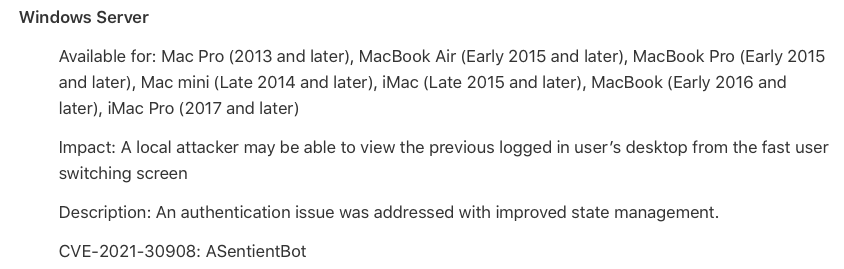
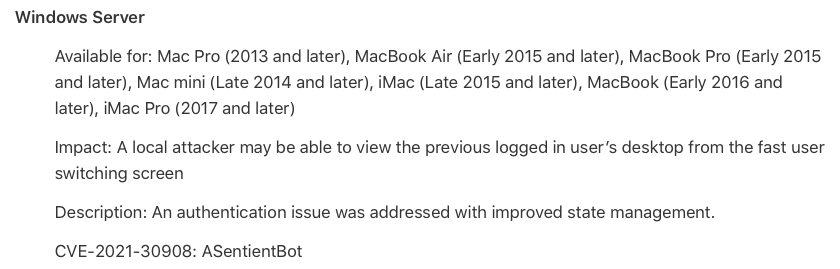
update images on yc and skylight bug pages
boring

diff --git a/sessions/index.html b/sessions/index.html
@@ -16,18 +16,21 @@
 </div>
 <div class="fixedWidth">
 <h1>SkyLight user session exploit</h1>
-While working on <a href="/bigsur">non-Metal acceleration</a> in 2021, I stumbled on a WindowServer bug allowing any user to switch to another session without entering their password. Apple fixed the bug in macOS <a target="_blank" href="https://support.apple.com/en-ca/HT212872">11.6.1</a> and <a target="_blank" href="https://support.apple.com/en-ca/HT212869">12.0.1</a> and paid me a generous bounty.
+I stumbled on a WindowServer bug allowing any user to switch to another user's session without entering their password. Apple fixed the bug in macOS <a target="_blank" href="https://support.apple.com/en-ca/HT212872">11.6.1</a> and <a target="_blank" href="https://support.apple.com/en-ca/HT212869">12.0.1</a> and paid me a generous bounty.
 <br>
 <br><img alt="" src="/sessions/bigsur.png"/>
 <br><img alt="" src="/sessions/monterey.png"/>
 <br>
-<br>Bizarrely, the bug was <i>reintroduced</i> at some point in Ventura, and fixed again in late 2023.
+<br>Bizarrely, the bug reappeared; it was fixed again in macOS <a target="_blank" href="https://support.apple.com/en-ca/120307">13.6.4</a> and <a target="_blank" href="https://support.apple.com/en-ca/109051">14.1</a>.
+<br>
+<br><img alt="" src="/sessions/ventura.png"/>
+<br><img alt="" src="/sessions/sonoma.png"/>
 <br>
 <br><h2>thanks</h2>
 <a target="_blank" href="https://github.com/moosethegoose2213">ASentientHedgehog</a> and <a target="_blank" href="https://twitter.com/916253">Emma (916253)</a> tested on countless versions and helped me navigate the reporting process. Thank you!
 <br>
 <br><h2>code</h2>
-This is the program I submitted to Apple. It simply brute-forces <code>SLSSessionSwitchToSessionID</code>, which lacked the necessary checks. A real attacker would do something cleverer; session IDs are readily available in logs and other APIs.
+This is the program I submitted; it just brute-forces <code>SLSSessionSwitchToSessionID</code>, which lacked the necessary checks. A real attacker would do something cleverer; session IDs are readily available in logs and other APIs.
 <br>
 <br><code>// clang -fmodules -F /System/Library/PrivateFrameworks -framework SkyLight thing.m -o thing
 
